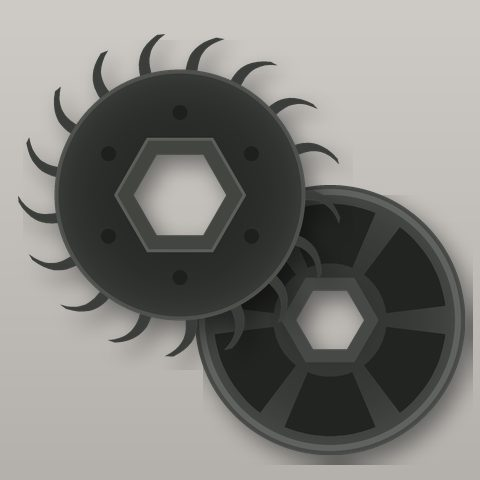
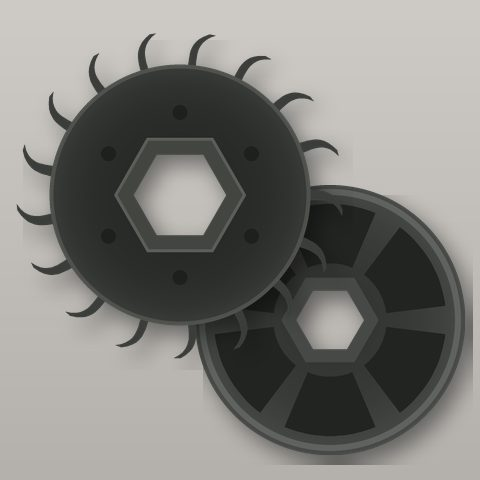
APV Zaaias: ff-ff en fv-fv ook getekend, echtere nokjes
- ff-ff en fv-fv: tekening met twee dezelfde wielen (2 per uitgang) in
  plaats van de foto; ff-fb en fv-fb: wiel met de blinde plaat erachter.
  Zo horen de vier fijne/fijnvolle opstellingen bij elkaar.
- Fijn wiel: kortere, dunnere, bijna rechte nokjes met een klein haakje,
  zoals het echte wiel.
- Foto van het fijne wiel in de hand (img/as-ff.jpg) eruit, ook uit sw.js.
- sw.js naar zaaihulp-v55.

Claude-Session: https://claude.ai/code/session_01AHPvN2ELLwM9p3H4XwzKr4

diff --git a/index.html b/index.html
@@ -625,7 +625,7 @@ h2 .sum.warn { color: var(--warn); }
     <ul class="log" id="aLog"></ul>
 
     <h2>Standaard zaaiassen</h2>
-    <p class="small" style="margin-top:0">Foto's van onze eigen wielen; ff-fb en fv-fb zijn nagetekend (wiel met daarachter de blinde plaat). Een eigen foto op deze telefoon gaat voor.</p>
+    <p class="small" style="margin-top:0">Flex 20 is een foto. De fijne en fijnvolle wielen zijn nagetekend: twee dezelfde wielen = 2 per uitgang, wiel met blinde plaat erachter = 1 wiel + blinde plaat. Een eigen foto op deze telefoon gaat voor.</p>
     <ul class="log" id="aStd"></ul>
 
     <h2>Rollen in de app</h2>
@@ -1724,8 +1724,8 @@ h2 .sum.warn { color: var(--warn); }
     { n: "Chia", tag: ["chia"], d: { ffb: [0.04,0.09,0.18,0.26,0.35,0.46,_,_,_,_,_,_,_,_,_,_,_,_,_,_,_] } },
     { n: "Slakkenkorrel", tag: ["slak"], d: { ffb: [_,0.06,0.12,0.18,0.24,0.3,0.36,0.42,0.48,0.54,0.6,0.66,0.72,0.78,0.84,0.9,0.96,1.02,1.08,1.14,1.2], flex20: [_,0.22,0.44,0.65,0.87,1.09,1.31,1.53,1.74,1.96,2.18,2.4,2.62,2.84,3.05,3.27,3.49,3.71,3.93,4.14,4.36] } }
   ];
-  // Vaste foto's (img/) van de standaard zaaiassen en van onze geprinte rollen; bij ff-fb en fv-fb is de blinde plaat nagetekend
-  const STD_FOTO = { flex20: "img/as-flex20.jpg", ff: "img/as-ff.jpg", ffb: "img/as-ffb.jpg", fvfv: "img/as-fvfv.jpg", fvfb: "img/as-fvfb.jpg" };
+  // Vaste plaatjes (img/): Flex 20 en onze geprinte rollen zijn foto's; de fijne en fijnvolle opstellingen zijn nagetekend
+  const STD_FOTO = { flex20: "img/as-flex20.jpg", ff: "img/as-ffff.jpg", ffb: "img/as-ffb.jpg", fvfv: "img/as-fvfv.jpg", fvfb: "img/as-fvfb.jpg" };
   const ROL_VAST = [
     { id: "v1", nr: "1", name: "V-nokjes", foto: "img/rol-1-v-nokjes.jpg", info: "geprint; V-vormige nokken, voor zaad dat in vierkante cellen blijft hangen" },
     { id: "v2", nr: "2", name: "grijs", foto: "img/rol-2-grijs.jpg", info: "geprint; 10 vierkante nokken" }

diff --git a/sw.js b/sw.js
@@ -1,9 +1,9 @@
 // Zaaihulp service worker: werkt offline, haalt updates op zodra er internet is.
-const CACHE = "zaaihulp-v54";
+const CACHE = "zaaihulp-v55";
 const SHELL = ["./", "./index.html", "./manifest.webmanifest", "./icon-192.png", "./icon-512.png",
   "./fonts/barlow-latin-400-normal.woff2", "./fonts/barlow-latin-500-normal.woff2", "./fonts/barlow-latin-600-normal.woff2",
   "./fonts/barlow-semi-condensed-latin-500-normal.woff2", "./fonts/barlow-semi-condensed-latin-700-normal.woff2",
-  "./img/as-flex20.jpg", "./img/as-ff.jpg", "./img/rol-1-v-nokjes.jpg", "./img/rol-2-grijs.jpg", "./img/as-fvfb.jpg", "./img/as-ffb.jpg", "./img/as-fvfv.jpg"];
+  "./img/as-flex20.jpg", "./img/as-ffff.jpg", "./img/rol-1-v-nokjes.jpg", "./img/rol-2-grijs.jpg", "./img/as-fvfb.jpg", "./img/as-ffb.jpg", "./img/as-fvfv.jpg"];
 // Zo lang wachten op het netwerk voordat de offline-versie komt (slecht bereik op het land)
 const WACHT_MS = 3000;
 

diff --git a/README.md b/README.md
@@ -55,9 +55,9 @@ Gebruik op een iPhone altijd het icoon op het beginscherm, niet los Safari: dan 
 ## Voor wie eraan werkt
 
 - **Alles in `index.html`:** HTML, CSS en JavaScript in één bestand. Geen build-stap, geen frameworks.
-- **`sw.js`:** de service worker voor offline gebruik. **Verhoog bij elke wijziging het versienummer** (`zaaihulp-v54` → `v55`), anders krijgen telefoons de update niet.
+- **`sw.js`:** de service worker voor offline gebruik. **Verhoog bij elke wijziging het versienummer** (`zaaihulp-v55` → `v56`), anders krijgen telefoons de update niet.
 - **`installeren.html`:** de installatiepagina. Herkent Android, iPhone of computer.
-- **`img/`:** foto's van de zaaiwielen en vaste rollen (480 px, ook offline in `sw.js`). Nieuwe vaste rol: foto in `img/`, regel in `ROL_VAST` in `index.html`, bestand in `SHELL` van `sw.js`.
+- **`img/`:** plaatjes van de zaaiwielen (Flex 20 foto, fijn en fijnvol nagetekend) en foto's van de vaste rollen (480 px, ook offline in `sw.js`). Nieuwe vaste rol: foto in `img/`, regel in `ROL_VAST` in `index.html`, bestand in `SHELL` van `sw.js`.
 - **`fonts/`:** het lettertype Barlow, zelf gehost, zodat er geen verzoeken naar Google gaan. **`vendor/`:** externe bibliotheken als eigen kopie (QR-code), niets van een CDN.
 - **Opslag:** `localStorage` (geen IndexedDB of cookies; de Cache API alleen voor de app-bestanden in `sw.js`). Back-up: JSON met `app`, `schema` (nu 2), `exportDatum` en `data`; het oude tekstformaat `ZAAIHULP-BACKUP1:` wordt nog gelezen. Veiligheidskopie bij terugzetten: sleutel `zaaihulpVoorTerugzetten`. **Verander bestaande sleutels niet**, anders zijn gebruikers hun proeven kwijt. Lukt bewaren niet (opslag vol, die wordt gedeeld met de Perceelkaart), dan toont de app bovenaan een rode melding. De Perceelkaart staat op hetzelfde domein en deelt de opslag; de back-up neemt daarom alleen de sleutels van de Zaaihulp mee.
 - **Geen `alert()` of `confirm()`:** die worden in sommige weergaven geblokkeerd. Gebruik `armed()` (eerste tik vraagt "zeker?", tweede tik voert uit) en `flash()`.
